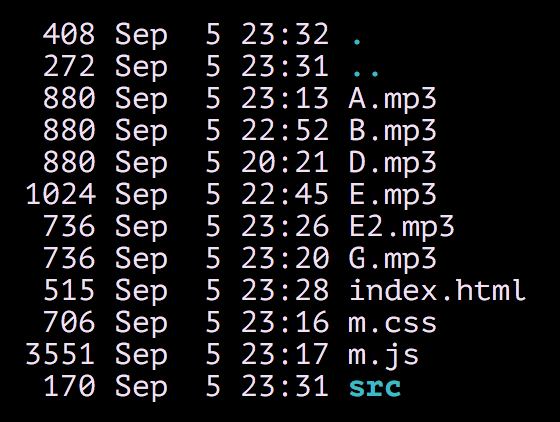
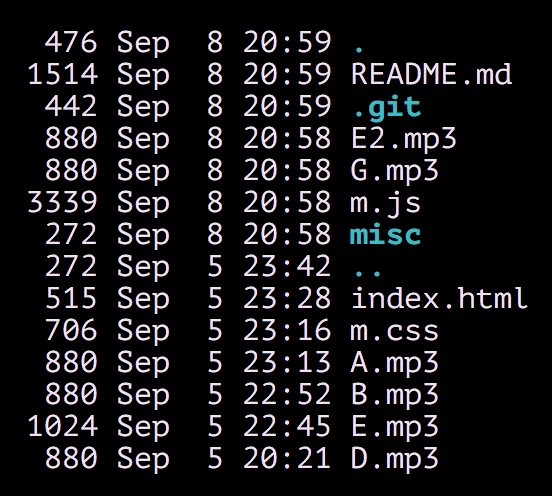
9984: fix issues with safari, clean up code, change the tone

diff --git a/misc/index.js b/misc/index.js
@@ -1,50 +1,46 @@
+window.AudioContext = window.AudioContext || window.webkitAudioContext;
 var CONFIG = {
     'E': {
         s: 'Standard E Station / The Wall Street', // station name
-        c: [1, 1.2, 1.6, 2.0, 2.8, 3.6], // frame count
-        f: [329.628, 440.000, 587.330, 783.991, 987.767, 1318.51], // freq
+        f: [82.4069, 110.000, 146.832, 195.998, 246.942, 329.628], // freq
         n: ['E', 'A', 'D', 'G', 'B', 'E'], // note
         m: ['E', 'A', 'D', 'G', 'B', 'E2'] // mp3
     },
     'D': {
         s: 'Downtown D / Rocker Fellows Center',
-        c: [1, 1.2, 1.6, 2.0, 2.8, 3.6],
-        f: [293.665, 440.000, 587.330, 783.991, 987.767, 1318.51],
+        f: [73.4162, 110.000, 146.832, 195.998, 246.942, 329.628],
         n: ['D', 'A', 'D', 'G', 'B', 'E']
     },
     'B': {
         s: 'Bass Phish Park',
-        c: [0.4, 0.5, 0.6, 0.7],
-        f: [164.814, 220.000, 293.665, 391.995],
+        f: [41.2034, 55.0000, 73.4162, 97.9989],
         n: ['E', 'A', 'D', 'G']
     },
     '1': {
         s: 'Siren Charms Hall / Drop A# Avenue',
-        c: [1, 1.2, 1.6, 2.0, 2.8, 3.6],
-        f: [233.082, 349.228, 466.164, 622.254, 783.991, 1046.50],
+        f: [58.2705, 87.3071, 116.541, 146.832, 195.998, 261.626],
         n: ['A<span class="h">#</span>', 'F', 'A<span class="h">#</span>', 'D<span class="h">#</span>', 'G', 'C']
     },
     'G': {
         s: 'Banjo Blue Grass Garden',
-        c: [2.2, 0.6, 0.8, 1.2, 1.8],
         f: [391.995, 146.832, 195.998, 246.942, 293.665],
         n: ['G', 'D', 'G', 'B', 'D']
     },
     'V': {
         s: 'Violin Bridge / Grand Fiddle Junction',
-        c: [1, 1.6, 2.8, 3.6],
         f: [195.998, 293.665, 440.000, 659.255],
         n: ['G', 'D', 'A', 'E']
     },
     'U': {
         s: 'Ukulele Circle Beach-by-the-Sea',
-        c: [1.4, 1, 1.2, 1.5],
         f: [391.995, 261.626, 329.628, 440.000],
         n: ['G', 'C', 'E', 'A']
     }
 };
 var KEY_OFFSET = 49;
 var CHANNELS = 2;
+var SAMPLE_RATE = 44100;
+var FRAME_COUNT = 1.5 * SAMPLE_RATE; // length of sound = time * SAMPLE_RATE.
 var COLORS = {
     '1': 'g',
     'A': '',
@@ -61,23 +57,22 @@ var COLORS = {
 }
 var TUNERS = ['E', 'D', 'B', '1', 'G', 'V', 'U']; // E, D, bass, banjo, A#, violin, ukulele
 var ct = CONFIG['E']; // current tuner
+var aud = new AudioContext();
+var src1 = null;
+var src2 = null;
 
 document.addEventListener('DOMContentLoaded', function(ev) {
-    window.AudioContext = window.AudioContext || window.webkitAudioContext;
-    var aud; // audio context
-    var source;
-
     updateNotes();
     addTuners();
-    addListeners(aud, source);
+    addListeners();
 
     var tuners = document.querySelectorAll('.t');
-    tuners.forEach(function(tuner, i) {
+    [].forEach.call(tuners, function(tuner, i) { // can't use tuners.forEach because Safari is being weird
         tuner.addEventListener('mousedown', function(e) {
-            ct = CONFIG[TUNERS[i]];
+            ct = CONFIG[tuner.innerText];
             document.getElementById('s').innerText = ct.s;
             updateNotes();
-        }, false);
+        });
     });
 });
 
@@ -120,89 +115,92 @@ function addTuners() {
     }
 }
 
-function addListeners(aud, source) {
-    var notes = document.querySelectorAll('.n');
+function addListeners() {
     document.onkeydown = function(e) {
         var keyIndex = e.keyCode - KEY_OFFSET;
         if (keyIndex > -1 && keyIndex < ct.f.length) {
-            clearAudio(source, aud);
-            try {
-                aud = playSyntheticNote(source, keyIndex);
-            } catch(e) {
-                playFallbackNote(e);
-            }
             notes[keyIndex].classList.add('ac');
         };
     };
-
     document.onkeyup = function(e) {
         var keyIndex = e.keyCode - KEY_OFFSET;
         if (keyIndex > -1 && keyIndex < ct.f.length) {
             notes[keyIndex].classList.remove('ac');
+            clearAudio();
+            try {
+                playSyntheticNote(keyIndex);
+            } catch(e) {
+                playFallbackNote(e, keyIndex);
+            }
         }
     };
-
-    notes.forEach(function(note, i) {
-        note.addEventListener('mousedown', function(e) {
-            clearAudio(source, aud);
+    var notes = document.querySelectorAll('.n');
+    [].forEach.call(notes, function(note, i) { // can't use notes.forEach because safari
+        note.addEventListener('mouseup', function(e) {
+            clearAudio();
             try {
-                aud = playSyntheticNote(source, i);
+                playSyntheticNote(i);
             } catch(e) {
-                playFallbackNote(e);
+                playFallbackNote(e, i);
             }
-        }, false);
+        });
     });
 }
 
-function clearAudio(source, aud) {
-    if (source && source !== null) {
-        source.stop();
-        source = null;
+function clearAudio() {
+    if (src1 && src1 !== null) {
+        src1.stop();
+        src1 = null;
+    }
+    if (src2 && src2 !== null) {
+        src2.stop();
+        src2 = null;
     }
     if (aud && aud !== null && aud.state !== 'closed') {
-        aud.close().then(function() {
-            aud = null;
+        aud.close(); // FYI this returns a promise
+    }
+}
+
+function playSyntheticNote(keyIndex) {
+    aud = new AudioContext();
+    var buffer = aud.createBuffer(CHANNELS, FRAME_COUNT, SAMPLE_RATE);
+    src1 = createSource(buffer, keyIndex, 10000, function(s) {
+        return s;
+    });
+    if (ct.s.startsWith('S') || ct.s.startsWith('D') || ct.s.endsWith('k')) {
+        src2 = createSource(buffer, keyIndex, -5000, function(s) {
+            return Math.floor(s * 5000) / 2500;
         });
     }
 }
 
-function playSyntheticNote(source, keyIndex) {
-    aud = new AudioContext();
-    var frameCount = ct.c[keyIndex] * 30000;
-    var buffer = aud.createBuffer(CHANNELS, frameCount, ct.f[keyIndex] * 90);
-
-    createSource(frameCount, buffer, function(s) {
-        return s;
-    });
-    createSource(frameCount, buffer, function(s) {
-        return Math.floor(s) / 2;
-    });
-
-    return aud;
-}
-
-function createSource(frameCount, buffer, editor) {
-    source = aud.createBufferSource();
-    for (var channel = 0; channel < CHANNELS; channel++) {
-        var bufferData = buffer.getChannelData(channel);
-        for (var i = 0; i < frameCount; i++) {
-            var fadeIn = 0;
-            if (frameCount > frameCount / 10) {
-                fadeIn = i / frameCount;
-            }
-            var fadeOut = (frameCount - i) / frameCount;
-            bufferData[i] = editor(Math.sin(i * Math.PI/90)) * fadeIn * fadeOut;
-        }
-    }
-    source.buffer = buffer;
-    source.connect(aud.destination);
-    source.start(0);
-}
-
-function playFallbackNote(e) {
+function playFallbackNote(e, i) {
     console.error(e);
     var player = document.getElementById('p');
     if (ct.m) {
-        player.setAttribute('src', ct.mp3[keyIndex] + '.mp3');
+        player.setAttribute('src', ct.m[i] + '.mp3');
     }
+}
+
+function createSource(buffer, keyIndex, gain, editor) {
+    var src = aud.createBufferSource();
+    for (var channel = 0; channel < CHANNELS; channel++) {
+        var frames = buffer.getChannelData(channel);
+        for (var i = 0; i < FRAME_COUNT; i++) {
+            // sound * fadeIn * fadeOut
+            frames[i] = editor(Math.sin(i * 2 * Math.PI * ct.f[keyIndex] / SAMPLE_RATE))
+                * i / FRAME_COUNT
+                * (FRAME_COUNT - i) / FRAME_COUNT;
+        }
+    }
+    src.buffer = buffer;
+    src.connect(aud.destination);
+
+    var g = aud.createGain();
+    src.connect(g);
+    g.connect(aud.destination);
+    g.gain.value = gain;
+
+    src.start(0);
+    return src;
 }

diff --git a/m.js b/m.js
@@ -1,1 +1,1 @@
-function updateNotes(){for(var e=document.querySelectorAll(".n"),t=e.length,n=0;n<Math.max(ct.f.length,t);n++){var a;n>=t?a=document.createElement("div"):(a=e[n],a.style.display=""),n>=ct.f.length&&(a.style.display="none"),a.setAttribute("class","n "+COLORS[ct.n[n]]),a.innerHTML=ct.n[n],n>=t&&document.getElementById("ns").appendChild(a)}}function addTuners(){var e=document.createElement("h3");e.innerText="Press above notes or keyboard number keys, starting at 1",document.body.appendChild(e);var t=document.createElement("h3");t.innerText="Other tuners: ",document.body.appendChild(t);for(var n=0;n<TUNERS.length;n++){var a=document.createElement("div");a.setAttribute("class","t "+COLORS[TUNERS[n]]),a.innerText=TUNERS[n],t.appendChild(a)}}function addListeners(e,t){var n=document.querySelectorAll(".n");document.onkeydown=function(a){var o=a.keyCode-KEY_OFFSET;if(o>-1&&o<ct.f.length){clearAudio(t,e);try{e=playSyntheticNote(t,o)}catch(a){playFallbackNote(a)}n[o].classList.add("ac")}},document.onkeyup=function(e){var t=e.keyCode-KEY_OFFSET;t>-1&&t<ct.f.length&&n[t].classList.remove("ac")},n.forEach(function(n,a){n.addEventListener("mousedown",function(n){clearAudio(t,e);try{e=playSyntheticNote(t,a)}catch(n){playFallbackNote(n)}},!1)})}function clearAudio(e,t){e&&null!==e&&(e.stop(),e=null),t&&null!==t&&"closed"!==t.state&&t.close().then(function(){t=null})}function playSyntheticNote(e,t){aud=new AudioContext;var n=3e4*ct.c[t],a=aud.createBuffer(CHANNELS,n,90*ct.f[t]);return createSource(n,a,function(e){return e}),createSource(n,a,function(e){return Math.floor(e)/2}),aud}function createSource(e,t,n){source=aud.createBufferSource();for(var a=0;CHANNELS>a;a++)for(var o=t.getChannelData(a),c=0;e>c;c++){var r=0;e>e/10&&(r=c/e);var s=(e-c)/e;o[c]=n(Math.sin(c*Math.PI/90))*r*s}source.buffer=t,source.connect(aud.destination),source.start(0)}function playFallbackNote(e){console.error(e);var t=document.getElementById("p");ct.m&&t.setAttribute("src",ct.mp3[keyIndex]+".mp3")}var CONFIG={E:{s:"Standard E Station / The Wall Street",c:[1,1.2,1.6,2,2.8,3.6],f:[329.628,440,587.33,783.991,987.767,1318.51],n:["E","A","D","G","B","E"],m:["E","A","D","G","B","E2"]},D:{s:"Downtown D / Rocker Fellows Center",c:[1,1.2,1.6,2,2.8,3.6],f:[293.665,440,587.33,783.991,987.767,1318.51],n:["D","A","D","G","B","E"]},B:{s:"Bass Phish Park",c:[.4,.5,.6,.7],f:[164.814,220,293.665,391.995],n:["E","A","D","G"]},1:{s:"Siren Charms Hall / Drop A# Avenue",c:[1,1.2,1.6,2,2.8,3.6],f:[233.082,349.228,466.164,622.254,783.991,1046.5],n:['A<span class="h">#</span>',"F",'A<span class="h">#</span>','D<span class="h">#</span>',"G","C"]},G:{s:"Banjo Blue Grass Garden",c:[2.2,.6,.8,1.2,1.8],f:[391.995,146.832,195.998,246.942,293.665],n:["G","D","G","B","D"]},V:{s:"Violin Bridge / Grand Fiddle Junction",c:[1,1.6,2.8,3.6],f:[195.998,293.665,440,659.255],n:["G","D","A","E"]},U:{s:"Ukulele Circle Beach-by-the-Sea",c:[1.4,1,1.2,1.5],f:[391.995,261.626,329.628,440],n:["G","C","E","A"]}},KEY_OFFSET=49,CHANNELS=2,COLORS={1:"g",A:"",'A<span class="h">#</span>':"r",B:"o",C:"",D:"o",'D<span class="h">#</span>':"r",E:"",F:"o",G:"g",V:"r",U:"r"},TUNERS=["E","D","B","1","G","V","U"],ct=CONFIG.E;document.addEventListener("DOMContentLoaded",function(e){window.AudioContext=window.AudioContext||window.webkitAudioContext;var t,n;updateNotes(),addTuners(),addListeners(t,n);var a=document.querySelectorAll(".t");a.forEach(function(e,t){e.addEventListener("mousedown",function(e){ct=CONFIG[TUNERS[t]],document.getElementById("s").innerText=ct.s,updateNotes()},!1)})});
+function uN(){for(var e=document.querySelectorAll(".n"),t=e.length,n=0;n<Math.max(ct.f.length,t);n++){var a;n>=t?a=document.createElement("div"):(a=e[n],a.style.display=""),n>=ct.f.length&&(a.style.display="none"),a.setAttribute("class","n "+CO[ct.n[n]]),a.innerHTML=ct.n[n],n>=t&&document.getElementById("ns").appendChild(a)}}function aT(){var e=document.createElement("h3");e.innerText="Press above notes or keyboard number keys, starting at 1",document.body.appendChild(e);var t=document.createElement("h3");t.innerText="Other tuners: ",document.body.appendChild(t);for(var n=0;n<T.length;n++){var a=document.createElement("div");a.setAttribute("class","t "+CO[T[n]]),a.innerText=T[n],t.appendChild(a)}}function aL(){document.onkeydown=function(t){var n=t.keyCode-KO;n>-1&&n<ct.f.length&&e[n].classList.add("ac")},document.onkeyup=function(t){var n=t.keyCode-KO;if(n>-1&&n<ct.f.length){e[n].classList.remove("ac"),cA();try{pSN(n)}catch(t){pFN(t,n)}}};var e=document.querySelectorAll(".n");[].forEach.call(e,function(e,t){e.addEventListener("mouseup",function(e){cA();try{pSN(t)}catch(e){pFN(e,t)}})})}function cA(){src1&&null!==src1&&(src1.stop(),src1=null),src2&&null!==src2&&(src2.stop(),src2=null),aud&&null!==aud&&"closed"!==aud.state&&aud.close()}function pSN(e){aud=new AudioContext;var t=aud.createBuffer(CH,FC,SR);src1=createSource(t,e,1e4,function(e){return e}),(ct.s.startsWith("S")||ct.s.startsWith("D")||ct.s.endsWith("k"))&&(src2=createSource(t,e,-5e3,function(e){return Math.floor(5e3*e)/2500}))}function pFN(e,t){console.error(e);var n=document.getElementById("p");ct.m&&n.setAttribute("src",ct.m[t]+".mp3")}function createSource(e,t,n,a){for(var c=aud.createBufferSource(),r=0;CH>r;r++)for(var o=e.getChannelData(r),s=0;FC>s;s++)o[s]=a(Math.sin(2*s*Math.PI*ct.f[t]/SR))*s/FC*(FC-s)/FC;c.buffer=e,c.connect(aud.destination);var d=aud.createGain();return c.connect(d),d.connect(aud.destination),d.gain.value=n,c.start(0),c}window.AudioContext=window.AudioContext||window.webkitAudioContext;var C={E:{s:"Standard E Station / The Wall Street",f:[82.4069,110,146.832,195.998,246.942,329.628],n:["E","A","D","G","B","E"],m:["E","A","D","G","B","E2"]},D:{s:"Downtown D / Rocker Fellows Center",f:[73.4162,110,146.832,195.998,246.942,329.628],n:["D","A","D","G","B","E"]},B:{s:"Bass Phish Park",f:[41.2034,55,73.4162,97.9989],n:["E","A","D","G"]},1:{s:"Siren Charms Hall / Drop A# Avenue",f:[58.2705,87.3071,116.541,146.832,195.998,261.626],n:['A<span class="h">#</span>',"F",'A<span class="h">#</span>','D<span class="h">#</span>',"G","C"]},G:{s:"Banjo Blue Grass Garden",f:[391.995,146.832,195.998,246.942,293.665],n:["G","D","G","B","D"]},V:{s:"Violin Bridge / Grand Fiddle Junction",f:[195.998,293.665,440,659.255],n:["G","D","A","E"]},U:{s:"Ukulele Circle Beach-by-the-Sea",f:[391.995,261.626,329.628,440],n:["G","C","E","A"]}},KO=49,CH=2,SR=44100,FC=1.5*SR,CO={1:"g",A:"",'A<span class="h">#</span>':"r",B:"o",C:"",D:"o",'D<span class="h">#</span>':"r",E:"",F:"o",G:"g",V:"r",U:"r"},T=["E","D","B","1","G","V","U"],ct=C.E,aud=new AudioContext,src1=null,src2=null;document.addEventListener("DOMContentLoaded",function(e){uN(),aT(),aL();var t=document.querySelectorAll(".t");[].forEach.call(t,function(e,t){e.addEventListener("mousedown",function(t){ct=C[e.innerText],document.getElementById("s").innerText=ct.s,uN()})})});

diff --git a/misc/index.html b/misc/index.html
@@ -1,8 +1,8 @@
 <!DOCTYPE html>
 <html>
 	<head>
-		<link rel='stylesheet' type='text/css' href='i.css'>
-		<script src='i.js'></script>
+		<link rel='stylesheet' type='text/css' href='index.css'>
+		<script src='index.js'></script>
 	</head>
 	<body>
 		<h1>Tuner Subway</h1>

diff --git a/README.md b/README.md
@@ -1,19 +1,18 @@
-## Tuner Subway - an instrument tuner in 10kb
+# Tuner Subway - Guitar/Instrument Tuner in <10kB
 
 ![Tuner Subway with JS Enabled](misc/js.png?raw=true "Tuner Subway with JS Enabled")
 
-The top guitar tuner results in the search engines take you to bloated pages with tuners that have tiny little knobs or dials that are not very user-friendly. Tuner Subway provides a wonderful instrument tuner that loads fast and doesn't even need Javascript! What a world!
+The top guitar tuner results in the search engines take you to bloated pages with tuners that have tiny little knobs or buttons that are not very user-friendly. Tuner Subway provides a fast and pretty instrument tuner that loads fast and doesn't even need Javascript! What a world!
 
-# Features:
-- Under 10kb with all assets! Some guitar tuner sound files are each larger than 10kb!
-- Large buttons! You'll never miss em!
+## Features
+- Under 10kB with all assets! Sound files are only loaded on-demand. In other tuners, some sound files are each larger than 10kB!
+- Large buttons - you'll never miss them!
 - Guitar E tuning works without Javascript!
 - Everything you want from the NYC Subway signs!
 
-![Tuner Subway with JS Disabled](misc/no-js.png?raw=true "Tuner Subway with JS Disabled")
-
-With Javascript enabled:
-- The numbers on your keyboard can play the notes! No more clicking!
+## MORE Features With Javascript Enabled!
+- Under 5kB! For 7 tuners! No better deal out there! :chart_with_upwards_trend:
+- Keyboard shortcuts! The numbers on your keyboard can play the notes! :keyboard: :musical_keyboard:
 - Super syntheic notes! It's like chiptunes without the tunes!
 - Standard E tuning!
 - Drop D!
@@ -22,6 +21,12 @@ With Javascript enabled:
 - Banjo!
 - Violin!
 - Ukulele!
-- Cute names!
+- Cute tuner names!
 
+I used the [Web Audio API](https://developer.mozilla.org/en-US/docs/Web/API/Web_Audio_API) to synthesize the sounds, and Garageband, Audacity, and mp3smaller.com to make the fallback mp3s.
+
+## Version with Javascript Disabled
+![Tuner Subway with JS Disabled](misc/no-js.png?raw=true "Tuner Subway with JS Disabled")
+
+## File Sizes
 ![File Sizes](misc/file-sizes.png?raw=true "File Sizes")
